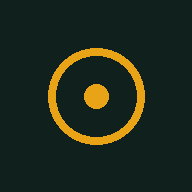
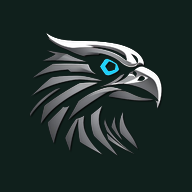
Versión 02

Changed region(s): [[0.1562, 0.1562, 0.8438, 0.8125], [0.6562, 0.7812, 0.6875, 0.8125]]

diff --git a/index.html b/index.html
@@ -4,63 +4,98 @@
 *{box-sizing:border-box}body{margin:0;background:#10201C;color:#F2F5F0;font:16px system-ui,sans-serif;min-height:100vh;display:flex;flex-direction:column}
 main{flex:1;padding:16px;display:flex;flex-direction:column;gap:10px;padding-bottom:84px}h1{font-size:20px;margin:0}small,label{color:#B7C7BF;font-size:13px}
 input,textarea,select{width:100%;min-height:48px;border-radius:10px;border:1px solid #2F4D44;background:#1B332D;color:#F2F5F0;font:inherit;padding:10px 12px}
-button{min-height:48px;border-radius:10px;border:1px solid #E8A317;background:transparent;color:#E8A317;font:600 16px system-ui;padding:0 14px}button.p{background:#E8A317;color:#10201C}
-.c{background:#1B332D;border:1px solid #2F4D44;border-radius:10px;padding:12px}.m{font:500 15px ui-monospace,monospace;line-height:1.6}.g{color:#9FD8B5}
+button{min-height:48px;border-radius:10px;border:1px solid #E8A317;background:transparent;color:#E8A317;font:600 16px system-ui;padding:0 14px}button.p{background:#E8A317;color:#10201C}button.sm{min-height:40px;font-size:14px;flex:1}
+button.c{color:#F2F5F0;border-color:#2F4D44;font-weight:400;text-align:left;width:100%;padding:12px}
+.c{background:#1B332D;border:1px solid #2F4D44;border-radius:10px;padding:12px}.m{font:500 15px ui-monospace,monospace;line-height:1.6}.g{color:#9FD8B5}.w{color:#F5C26B}
 nav{position:fixed;bottom:0;left:0;right:0;display:flex;background:#1B332D;border-top:1px solid #2F4D44}nav button{flex:1;border:0;border-radius:0;min-height:60px;color:#B7C7BF}nav button.on{color:#E8A317}
 .r{display:flex;gap:10px}.r img{width:64px;height:64px;object-fit:cover;border-radius:8px}[hidden]{display:none!important}
 </style></head><body><main>
-<section id="s0" hidden><h1>Nuevo proyecto</h1><small>Datos obligatorios, se registran en cada foto.</small>
+<section id="s0" hidden style="display:flex;flex-direction:column;gap:8px"><img src="logo.png" alt="Logo Fotos UTM" style="width:96px;height:96px;object-fit:contain;align-self:center"><h1 style="text-align:center">Fotos UTM</h1>
+<div class="c w" style="font-size:14px">Antes de empezar, verifica que la <b>ubicación del celular esté activada</b> (precisa) y permite el acceso cuando la app lo pida.</div>
 <label for="p">Proyecto</label><input id="p"><label for="e">Entidad</label><input id="e"><label for="f">Fecha</label><input id="f" type="date">
-<button class="p" id="ini">Iniciar levantamiento</button></section>
-<section id="s1" hidden><div style="display:flex;justify-content:space-between"><div><h1>Captura</h1><small id="pn"></small></div><button id="cp">Cambiar</button></div>
-<div class="c m" id="gps">Buscando GPS…</div><label for="zf">Zona UTM</label><select id="zf"><option value="">Automática</option><option>17</option><option>18</option><option>19</option></select>
-<button class="p" id="tk" style="min-height:64px">Tomar foto</button><small>Sin conexión también funciona. El nombre y la descripción se pueden dictar con el micrófono del teclado.</small>
+<label for="md">Modo de trabajo</label><select id="md"><option value="sin">Sin internet</option><option value="con">Con internet</option></select>
+<button class="p" id="ini">Iniciar levantamiento</button><h1 style="font-size:16px;margin-top:8px">Proyectos anteriores</h1><div id="pl" style="display:flex;flex-direction:column;gap:8px"></div></section>
+<section id="s1" hidden><div style="display:flex;justify-content:space-between"><div><h1>Captura</h1><small id="pn"></small><br><small id="mb"></small></div><button id="cp">Cambiar</button></div>
+<div class="c m" id="gps">Buscando GPS…</div><button id="rg">Reintentar GPS</button><small>Verifica que la ubicación del celular esté activada.</small>
+<label for="zf">Zona UTM</label><select id="zf"><option value="">Automática</option><option>17</option><option>18</option><option>19</option></select>
+<button class="p" id="tk" style="min-height:64px">Tomar foto</button>
 <input id="cam" type="file" accept="image/*" capture="environment" hidden>
 <div id="sh" class="c" hidden style="display:flex;flex-direction:column;gap:8px"><img id="pv" style="width:100%;max-height:260px;object-fit:cover;border-radius:8px"><div class="m" id="sc"></div>
-<label for="nm">Nombre de la foto</label><input id="nm" placeholder="Vista frontal del predio"><label for="ds">Descripción del predio</label><textarea id="ds" rows="3"></textarea>
+<label for="nm">Nombre de la foto</label><input id="nm" placeholder="Vista frontal del predio"><div class="r"><button class="sm" data-f="nm" data-a="t">✏ Texto</button><button class="sm" data-f="nm" data-a="a">🎤 Audio</button></div>
+<label for="ds">Descripción del predio</label><textarea id="ds" rows="3"></textarea><div class="r"><button class="sm" data-f="ds" data-a="t">✏ Texto</button><button class="sm" data-f="ds" data-a="a">🎤 Audio</button></div>
 <div class="r"><button class="p" id="sv" style="flex:1">Guardar</button><button id="dc">Descartar</button></div></div></section>
 <section id="s2" hidden><h1>Registro</h1><div id="ls" style="display:flex;flex-direction:column;gap:10px"></div></section>
-<section id="s3" hidden><h1>Exportar</h1><div class="c"><b>ZIP con Excel, KML y fotos</b><br><small>registro.xlsx, ubicaciones.kml (Google Earth) y las fotos sin datos impresos.</small></div><button class="p" id="ex">Exportar y compartir</button><small id="em"></small></section>
+<section id="s3" hidden><h1>Exportar y compartir</h1><small>Se abre la lista de apps del celular (WhatsApp, Drive, correo…). Los archivos llevan el nombre del proyecto.</small>
+<button class="p" id="bx">Excel (.xlsx)</button><button class="p" id="bk">KML (Google Earth)</button><button id="bz">ZIP completo con fotos</button><small id="em"></small></section>
 </main><nav><button data-s="1" class="on">Captura</button><button data-s="2">Registro</button><button data-s="3">Exportar</button></nav>
+<div id="cv" hidden style="position:fixed;inset:0;background:#000;z-index:9;display:flex;flex-direction:column"><video id="vd" autoplay playsinline muted style="flex:1;min-height:0;width:100%;object-fit:cover"></video><div style="display:flex;gap:10px;padding:16px;background:#10201C"><button id="cc" style="flex:1">Cerrar</button><button class="p" id="cs" style="flex:2;min-height:64px">Capturar</button></div></div>
 <script src="lib.js"></script><script>
 const $=s=>document.querySelector(s),pad=n=>String(n).padStart(3,"0");
-let db,pos,snap,file,proj=JSON.parse(localStorage.proj||"null");
+let db,pos,snap,file,wid,proj=JSON.parse(localStorage.proj||"null"),projs=JSON.parse(localStorage.projs||"[]");
 const q=indexedDB.open("fotoutm",1);q.onupgradeneeded=()=>q.result.createObjectStore("f",{keyPath:"id",autoIncrement:true});
 q.onsuccess=()=>{db=q.result;go(proj?1:0)};
 const st=m=>db.transaction("f",m).objectStore("f");
 const all=()=>new Promise(r=>{const g=st("readonly").getAll();g.onsuccess=()=>r(g.result.filter(x=>x.pid==proj.id).sort((a,b)=>a.n-b.n))});
 const dt=t=>{const d=new Date(t),z=n=>String(n).padStart(2,"0");return[`${z(d.getDate())}/${z(d.getMonth()+1)}/${d.getFullYear()}`,`${z(d.getHours())}:${z(d.getMinutes())}`]};
+function badge(){const m=localStorage.mode||"sin";$("#mb").textContent="Modo: "+(m=="con"?"Con internet":"Sin internet")+(m=="con"&&!navigator.onLine?" (sin conexión ahora)":"")}
+function projList(){$("#pl").innerHTML=projs.length?"":"<small>Aún no hay proyectos anteriores.</small>";
+projs.forEach(p=>{const b=document.createElement("button");b.className="c";b.textContent=`${p.nombre} · ${p.entidad} · ${p.fecha}`;b.onclick=()=>{proj=p;localStorage.proj=JSON.stringify(p);go(1)};$("#pl").append(b)})}
 function go(n){[0,1,2,3].forEach(i=>$("#s"+i).hidden=i!=n);document.querySelector("nav").hidden=n==0;
 document.querySelectorAll("nav button").forEach(b=>b.classList.toggle("on",b.dataset.s==n));
-if(n==1){$("#pn").textContent=proj.nombre+" · "+proj.entidad;$("#sh").hidden=!file}if(n==2)list()}
+if(n==0)projList();if(n==1){$("#pn").textContent=proj.nombre+" · "+proj.entidad;badge();$("#sh").hidden=!file}if(n==2)list()}
 document.querySelectorAll("nav button").forEach(b=>b.onclick=()=>go(+b.dataset.s));
-$("#f").value=new Date().toISOString().slice(0,10);
+$("#f").value=new Date().toISOString().slice(0,10);$("#md").value=localStorage.mode||"sin";$("#md").onchange=e=>{localStorage.mode=e.target.value;badge()};
+addEventListener("online",badge);addEventListener("offline",badge);
 $("#ini").onclick=()=>{const p=$("#p").value.trim(),e=$("#e").value.trim(),f=$("#f").value;if(!p||!e||!f)return alert("Completa proyecto, entidad y fecha.");
-proj={id:Date.now(),nombre:p,entidad:e,fecha:f};localStorage.proj=JSON.stringify(proj);go(1)};
+proj={id:Date.now(),nombre:p,entidad:e,fecha:f};projs.unshift(proj);localStorage.projs=JSON.stringify(projs);localStorage.proj=JSON.stringify(proj);go(1)};
 $("#cp").onclick=()=>go(0);$("#zf").value=localStorage.zf||"";$("#zf").onchange=e=>{localStorage.zf=e.target.value;showGps()};
 function showGps(){if(!pos)return;const c=pos.coords,u=toUTM(c.latitude,c.longitude,$("#zf").value);
 $("#gps").innerHTML=`<span class="g">WGS84 · Zona ${u.zone}${u.band} · ±${Math.round(c.accuracy)} m</span><br>E ${u.e.toFixed(1)}<br>N ${u.n.toFixed(1)}`}
-navigator.geolocation?navigator.geolocation.watchPosition(p=>{pos=p;showGps()},e=>{$("#gps").textContent="GPS no disponible: activa la ubicación y permite el acceso."},{enableHighAccuracy:true,maximumAge:0}):0;
-$("#tk").onclick=()=>{if(!pos)return alert("Aún no hay posición GPS. Espera unos segundos al aire libre.");
-const c=pos.coords;snap={lat:c.latitude,lon:c.longitude,alt:c.altitude,acc:c.accuracy,ts:Date.now()};$("#cam").click()};
-$("#cam").onchange=e=>{file=e.target.files[0];e.target.value="";if(!file)return;
-const u=toUTM(snap.lat,snap.lon,$("#zf").value);$("#pv").src=URL.createObjectURL(file);$("#nm").value="";$("#ds").value="";
-$("#sc").textContent=`Zona ${u.zone}${u.band} · E ${u.e.toFixed(1)} · N ${u.n.toFixed(1)}`;$("#sh").hidden=false};
-$("#dc").onclick=()=>{file=null;$("#sh").hidden=true};
+const GM={1:"Permiso de ubicación denegado. En Chrome toca el ícono junto a la dirección, Permisos, Ubicación, Permitir. En Ajustes del celular activa Ubicación y elige \"Precisa\" para Chrome o para esta app.",2:"No se pudo obtener la posición. Verifica que la Ubicación del celular esté activada y sal a cielo abierto.",3:"Sin señal GPS por ahora. Sal a un lugar abierto y espera unos segundos."};
+function gpsErr(e){$("#gps").innerHTML=`<span class="w">GPS no disponible (código ${e.code}).<br>${GM[e.code]||e.message}</span>`}
+function startGps(hi){if(!navigator.geolocation)return gpsErr({code:2,message:"Este navegador no tiene geolocalización."});
+if(wid!=null)navigator.geolocation.clearWatch(wid);
+wid=navigator.geolocation.watchPosition(p=>{pos=p;showGps()},e=>{if(hi&&e.code!=1)startGps(false);else gpsErr(e)},{enableHighAccuracy:hi,maximumAge:5000,timeout:20000})}
+$("#rg").onclick=()=>{$("#gps").textContent="Buscando GPS…";startGps(true)};startGps(true);
+function dictar(i,b){const R=window.SpeechRecognition||window.webkitSpeechRecognition;
+if((localStorage.mode||"sin")!="con")return alert("El audio automático requiere el modo \"Con internet\" (actívalo en Cambiar). Sin internet usa el micrófono del teclado.");
+if(!R)return alert("Este navegador no permite dictado. Usa el micrófono del teclado.");
+const r=new R();r.lang="es-PE";r.onresult=e=>{const t=e.results[0][0].transcript;i.value=(i.value?i.value+" ":"")+t};
+r.onerror=e=>alert("Dictado no disponible ("+e.error+"). Usa el teclado.");r.onstart=()=>b.textContent="Escuchando…";r.onend=()=>b.textContent="🎤 Audio";r.start()}
+document.querySelectorAll(".sm").forEach(b=>b.onclick=()=>{const i=$("#"+b.dataset.f);b.dataset.a=="t"?i.focus():dictar(i,b)});
+let stm;
+const stop=()=>{if(stm)stm.getTracks().forEach(t=>t.stop());stm=null;$("#vd").srcObject=null;$("#cv").hidden=true};
+const mk=()=>{const c=pos.coords;snap={lat:c.latitude,lon:c.longitude,alt:c.altitude,acc:c.accuracy,ts:Date.now()}};
+function prep(f){file=f;const u=toUTM(snap.lat,snap.lon,$("#zf").value);$("#pv").src=URL.createObjectURL(f);$("#nm").value="";$("#ds").value="";
+$("#sc").textContent=`Zona ${u.zone}${u.band} · E ${u.e.toFixed(1)} · N ${u.n.toFixed(1)}`;$("#sh").hidden=false}
+$("#tk").onclick=async()=>{if(!pos)return alert("Aún no hay posición GPS. Verifica que la ubicación esté activada y espera unos segundos al aire libre.");
+mk();if(!navigator.mediaDevices||!navigator.mediaDevices.getUserMedia)return $("#cam").click();
+try{stm=await navigator.mediaDevices.getUserMedia({video:{facingMode:{ideal:"environment"},width:{ideal:2560},height:{ideal:1920}},audio:false});$("#vd").srcObject=stm;$("#cv").hidden=false}catch(e){$("#cam").click()}};
+$("#cc").onclick=stop;
+$("#cs").onclick=async()=>{const v=$("#vd"),t=stm.getVideoTracks()[0];let b;if(pos)mk();
+try{b=await new ImageCapture(t).takePhoto({imageWidth:2560})}catch(_){const c=document.createElement("canvas");c.width=v.videoWidth;c.height=v.videoHeight;c.getContext("2d").drawImage(v,0,0);b=await new Promise(r=>c.toBlob(r,"image/jpeg",.9))}
+stop();prep(b)};
+$("#cam").onchange=e=>{const f=e.target.files[0];e.target.value="";if(f)prep(f)};
+$("#dc").onclick=()=>{URL.revokeObjectURL($("#pv").src);file=null;$("#sh").hidden=true};
 $("#sv").onclick=async()=>{const l=await all(),n=l.length?l[l.length-1].n+1:1,u=toUTM(snap.lat,snap.lon,$("#zf").value);
-const rec={pid:proj.id,n,code:"FOTO-"+pad(n),nombre:$("#nm").value.trim()||"Sin nombre",desc:$("#ds").value.trim(),...snap,e:u.e,nn:u.n,zone:u.zone+u.band,blob:file};
-await new Promise(r=>{const t=db.transaction("f","readwrite");t.objectStore("f").add(rec);t.oncomplete=r});file=null;$("#sh").hidden=true};
+let thumb=null;try{const bm=await createImageBitmap(file,{resizeWidth:160,resizeQuality:"low"}),c=document.createElement("canvas");c.width=bm.width;c.height=bm.height;c.getContext("2d").drawImage(bm,0,0);thumb=await new Promise(r=>c.toBlob(r,"image/jpeg",.7));bm.close()}catch(_){}
+const rec={thumb,pid:proj.id,n,code:"FOTO-"+pad(n),nombre:$("#nm").value.trim()||"Sin nombre",desc:$("#ds").value.trim(),...snap,e:u.e,nn:u.n,zone:u.zone+u.band,blob:file};
+await new Promise(r=>{const t=db.transaction("f","readwrite");t.objectStore("f").add(rec);t.oncomplete=r});URL.revokeObjectURL($("#pv").src);file=null;$("#sh").hidden=true};
 async function list(){const l=await all();$("#ls").innerHTML=l.length?"":"<small>Aún no hay fotos.</small>";
-l.forEach(r=>{const d=document.createElement("div"),[f,h]=dt(r.ts);d.className="c r";d.innerHTML=`<img src="${URL.createObjectURL(r.blob)}" alt=""><div style="flex:1;font-size:14px"><b>${r.code} · </b><span></span><br><span class="g m" style="font-size:12px">${r.zone} E ${r.e.toFixed(0)} N ${r.nn.toFixed(0)}</span><br><small>${f} ${h}</small></div><div style="display:flex;flex-direction:column;gap:6px"><button aria-label="Editar" style="min-height:40px">Editar</button><button aria-label="Eliminar" style="min-height:40px">X</button></div>`;
-d.querySelector("span").textContent=r.nombre;d.querySelector("[aria-label=Editar]").onclick=()=>{const n=prompt("Nombre de la foto",r.nombre);if(n===null)return;const t=prompt("Descripción del predio",r.desc);if(t===null)return;r.nombre=n.trim()||"Sin nombre";r.desc=t.trim();st("readwrite").put(r).onsuccess=list};d.querySelector("[aria-label=Eliminar]").onclick=()=>{if(confirm("¿Eliminar "+r.code+"?")){st("readwrite").delete(r.id).onsuccess=list}};$("#ls").append(d)})}
-$("#ex").onclick=async()=>{const l=await all();if(!l.length)return alert("No hay fotos para exportar.");$("#em").textContent="Preparando…";
+l.forEach(r=>{const d=document.createElement("div"),[f,h]=dt(r.ts);d.className="c r";d.innerHTML=`<img src="${URL.createObjectURL(r.thumb||r.blob)}" alt=""><div style="flex:1;font-size:14px"><b>${r.code} · </b><span></span><br><span class="g m" style="font-size:12px">${r.zone} E ${r.e.toFixed(0)} N ${r.nn.toFixed(0)}</span><br><small>${f} ${h}</small></div><div style="display:flex;flex-direction:column;gap:6px"><button aria-label="Editar" style="min-height:40px">Editar</button><button aria-label="Eliminar" style="min-height:40px">X</button></div>`;
+d.querySelector("span").textContent=r.nombre;
+d.querySelector("[aria-label=Editar]").onclick=()=>{const n=prompt("Nombre de la foto",r.nombre);if(n===null)return;const t=prompt("Descripción del predio",r.desc);if(t===null)return;r.nombre=n.trim()||"Sin nombre";r.desc=t.trim();st("readwrite").put(r).onsuccess=list};
+d.querySelector("[aria-label=Eliminar]").onclick=()=>{if(confirm("¿Eliminar "+r.code+"?")){st("readwrite").delete(r.id).onsuccess=list}};$("#ls").append(d)})}
+const slug=()=>proj.nombre.replace(/[^\w-]+/g,"_")+"_"+proj.fecha;
+async function datos(){const l=await all();if(!l.length){alert("No hay fotos para exportar.");return}
 const rows=[["N° foto","Código","Nombre de la foto","Descripción del predio","Zona UTM","Este (m)","Norte (m)","Latitud","Longitud","Precisión GPS (m)","Fecha","Hora","Proyecto","Entidad"]];
-const fs=[];for(const r of l){const[f,h]=dt(r.ts);rows.push([r.n,r.code,r.nombre,r.desc,r.zone,+r.e.toFixed(2),+r.nn.toFixed(2),+r.lat.toFixed(7),+r.lon.toFixed(7),+(r.acc||0).toFixed(1),f,h,proj.nombre,proj.entidad]);
-fs.push({name:"fotos/"+r.code+".jpg",data:new Uint8Array(await r.blob.arrayBuffer())})}
-const en=new TextEncoder(),xb=new Uint8Array(await xlsx(rows).arrayBuffer());
-fs.push({name:"registro.xlsx",data:xb},{name:"ubicaciones.kml",data:en.encode(kml(proj.nombre,l))});
-const nm=proj.nombre.replace(/[^\w-]+/g,"_")+"_"+proj.fecha+".zip",z=new File([zip(fs)],nm,{type:"application/zip"});
-if(navigator.canShare&&navigator.canShare({files:[z]}))try{await navigator.share({files:[z],title:nm})}catch(_){}else{const a=document.createElement("a");a.href=URL.createObjectURL(z);a.download=nm;a.click()}
-$("#em").textContent="Listo: "+nm};
+l.forEach(r=>{const[f,h]=dt(r.ts);rows.push([r.n,r.code,r.nombre,r.desc,r.zone,+r.e.toFixed(2),+r.nn.toFixed(2),+r.lat.toFixed(7),+r.lon.toFixed(7),+(r.acc||0).toFixed(1),f,h,proj.nombre,proj.entidad])});return{l,rows}}
+async function enviar(f){if(navigator.canShare&&navigator.canShare({files:[f]})){try{await navigator.share({files:[f],title:f.name})}catch(_){}}else{const a=document.createElement("a");a.href=URL.createObjectURL(f);a.download=f.name;a.click()}$("#em").textContent="Listo: "+f.name}
+$("#bx").onclick=async()=>{const d=await datos();if(d)enviar(new File([xlsx(d.rows)],slug()+".xlsx",{type:"application/vnd.openxmlformats-officedocument.spreadsheetml.sheet"}))};
+$("#bk").onclick=async()=>{const d=await datos();if(d)enviar(new File([kml(proj.nombre,d.l)],slug()+".kml",{type:"application/vnd.google-earth.kml+xml"}))};
+$("#bz").onclick=async()=>{const d=await datos();if(!d)return;$("#em").textContent="Preparando…";const fs=[];
+for(const r of d.l)fs.push({name:"fotos/"+r.code+".jpg",data:new Uint8Array(await r.blob.arrayBuffer())});
+fs.push({name:slug()+".xlsx",data:new Uint8Array(await xlsx(d.rows).arrayBuffer())},{name:slug()+".kml",data:new TextEncoder().encode(kml(proj.nombre,d.l))});
+enviar(new File([zip(fs)],slug()+".zip",{type:"application/zip"}))};
 if("serviceWorker" in navigator)navigator.serviceWorker.register("sw.js");
 </script></body></html>

diff --git a/sw.js b/sw.js
@@ -1,3 +1,3 @@
-const K="fotoutm-v2",A=["./","index.html","lib.js","manifest.webmanifest","icon-192.png","icon-512.png"];
+const K="fotoutm-v4",A=["./","index.html","lib.js","manifest.webmanifest","icon-192.png","icon-512.png","logo.png"];
 self.addEventListener("install",e=>e.waitUntil(caches.open(K).then(c=>c.addAll(A))));
 self.addEventListener("fetch",e=>e.respondWith(caches.match(e.request).then(r=>r||fetch(e.request))));
